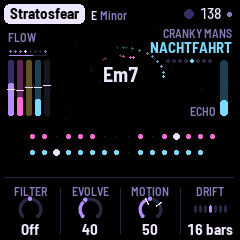
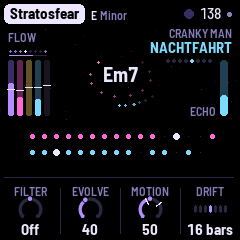
name: "by CRANKY MAN", not MANS
The user's correction: the signature is Cranky Man. The launch screen
("by CRANKY MAN"), the main screen's corner over the page's name
(BERLIN_BY), the manual's text and alt texts, PLAN, the pages' alt text;
screen-main, screen-launch and the panel drawing re-rendered.

diff --git a/firmware/src/app/ui.c b/firmware/src/app/ui.c
@@ -2141,7 +2141,7 @@ static void draw_card(uint32_t now)
     text_c(CX, y + 28, &FONT_XS, ui.card_text, tc);
 }
 
-#define BERLIN_BY "CRANKY MANS"                  /* (the user's name, on the main screen and the launch screen) */
+#define BERLIN_BY "CRANKY MAN"                   /* (the user's name, on the main screen and the launch screen) */
 static void draw_main(void)
 {
     uint32_t now = plat_ms(), h = hash(2166136261u, (uint32_t)en_frozen << 16 | proj.piece << 24 | (uint32_t)en_playing << 17), i;
@@ -2976,7 +2976,7 @@ void ui_frame(void)
 
 void ui_input_only(void) { input(); }
 
-/* (BERLIN) the launch screen, the user's: NACHTFAHRT large (BERLIN's new name, the user's), "by CRANKY MANS" under
+/* (BERLIN) the launch screen, the user's: NACHTFAHRT large (BERLIN's new name, the user's), "by CRANKY MAN" under
  * it, on black among a few stars, fading in; the version small at the foot. Frame f of UI_SPLASH_N, drawn whole (two
  * bands of 240 x 120) */
 static void splash_band(int f, int32_t oy)

diff --git a/tools/make_pages.py b/tools/make_pages.py
@@ -84,7 +84,7 @@ into a tape echo, a sub bass, a steady kick, vinyl crackle, eight-bar phrases th
 it back with a fill. Leave it running for hours, or play it: the mix and dub moves on the keys, sixteen effects on REC,
 your own chords and drum patterns.</p>
 <div class="shots">
-  <img src="img/screen-launch.png" width="240" height="240" alt="NACHTFAHRT's launch screen: the name, by CRANKY MANS, the version">
+  <img src="img/screen-launch.png" width="240" height="240" alt="NACHTFAHRT's launch screen: the name, by CRANKY MAN, the version">
   <img src="img/screen-main.png" width="240" height="240" alt="DUB-1's main screen: the stabs' ripples round the chord Fm7, the layers' meters, the lanes of the bar">
   <img src="img/screen-perform.png" width="240" height="240" alt="PERFORM, throwing every stab into the echo: double rings">
 </div>

diff --git a/docs/MANUAL.md b/docs/MANUAL.md
@@ -130,14 +130,14 @@ A long press says what it did on a card in the middle of the screen.
 
 ## 4. The screen
 
-![Stratosfear playing: the piece, its key and tempo at the top, FLOW and its bars on the left over five level meters, the chord Em7 in white in the middle with the sequences' notes circling it, CRANKY MANS and the page's name at the top right, the echo's level on the right, two lanes of steps below, the Nachtfahrt page's four knobs at the bottom](img/screen-main.png "The main screen, Stratosfear")
+![Stratosfear playing: the piece, its key and tempo at the top, FLOW and its bars on the left over five level meters, the chord Em7 in white in the middle with the sequences' notes circling it, CRANKY MAN and the page's name at the top right, the echo's level on the right, two lanes of steps below, the Nachtfahrt page's four knobs at the bottom](img/screen-main.png "The main screen, Stratosfear")
 
 The screen is black, with a few dim stars drifting slowly left while the music plays.
 
 - **Top:** the piece, its key and mode, the tempo (EXT under MIDI clock). A dot means unsaved changes.
 - **Top left:** the section of the arc (EMERGE, FLOW, SOLO, BRIDGE), with **hold** and **lock** after it in red
   while they're on, and under it the eight bars of the phrase.
-- **Top right:** "CRANKY MANS", small, and under it the page's name (with SOLO beside it while a solo is on).
+- **Top right:** "CRANKY MAN", small, and under it the page's name (with SOLO beside it while a solo is on).
 - **Left:** five **meters**, one for each layer in its own colour: the Drone (violet), the Sequence (pink), the
   Lead (gold), Sequence 2 (cyan), the Atmosphere (grey). Each rises with what its layer is playing. Across each
   one, a white **tick** shows where that layer's filter has moved to: above the middle, brighter; below,
@@ -164,9 +164,9 @@ moving darker, about -1 octave").
 ![The Sequence's sound page: Cutoff, Decay, Reverb and Echo, with MOVING DARKER, -0.5 OCT under the lanes](img/screen-seqsound.png "A sound page: the cyan dot on Cutoff's ring, and the words under the lanes")
 
 **The launch screen.** Every time the FM-1 starts, NACHTFAHRT comes up large on black among a few stars, with
-"by CRANKY MANS" under it and the version at the foot, for a moment. The music starts as always, under it.
+"by CRANKY MAN" under it and the version at the foot, for a moment. The music starts as always, under it.
 
-![The launch screen: NACHTFAHRT, by CRANKY MANS, and the version](img/screen-launch.png "The launch screen")
+![The launch screen: NACHTFAHRT, by CRANKY MAN, and the version](img/screen-launch.png "The launch screen")
 
 ---
 

diff --git a/PLAN.md b/PLAN.md
@@ -30,7 +30,7 @@ Done, with the whole suite passing (`tests/run_tests.sh`, gate `tools/suite_gate
 - **PERFORM finished**: a muted Lead and a muted Drone are silent (MIDI too); Energy drives Repeat B; Wet moves
   every layer's echo send.
 - **The screen**: Cosmic on black (starfield, orbits round the chord, five meters, two sequence lanes, "CRANKY
-  MANS"), the launch screen "NACHTFAHRT / by CRANKY MANS"; DUB-1's leftovers (drum and rhythm pages, the scrolling
+  MAN"), the launch screen "NACHTFAHRT / by CRANKY MAN"; DUB-1's leftovers (drum and rhythm pages, the scrolling
   display, the spectrum and wave displays) and its dead engine code are gone.
 - **The echo**: its default time is 1/4. (a dotted quarter), Repeat A stays 1/8.; the Sequences' echo sends are
   louder.
